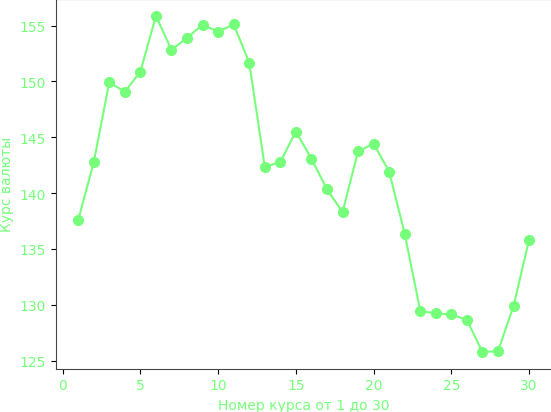
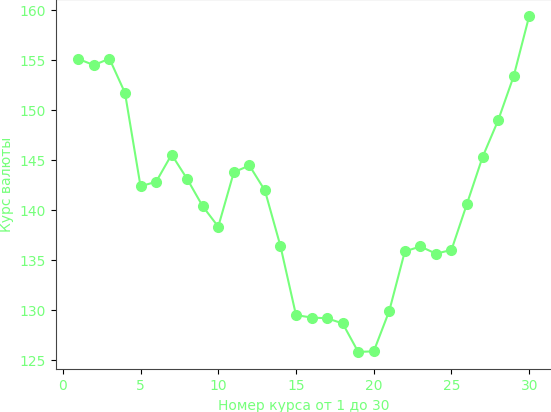
добавил упоминание загадок ботом для распространения по серверу секретных слов. Добавил новую функцию в ai_response.

diff --git a/Cogs/Events.py b/Cogs/Events.py
@@ -27,10 +27,11 @@ from bot_modules.private_channels.voice_channels import WriteJsonFileVoice
 from bot_modules.investions.set_invest import InvestJsonActions
 from bot_modules.investions.invest_graph import CourseJsonWriter
 from bot_modules.BotStats.ErrorsWriter import error_write
-from bot_modules.ai_response.ai_response import get_response
+from bot_modules.ai_response.ai_response import get_response, get_response_secret_word
 from bot_modules.ai_response.json_writter import write_into_json, JSON_PATH
 from bot_modules.command_logger import event_logger, cog_logger, command_logger, error_logger
 from bot_modules.work_game.user_work_writer import get_user_work_info, WORK_PATH
+from bot_modules.secret_words_game.words_json_writer import get_all_secret_words
 
 ## Прочие константы.
 DIR_CREDIT_PATH = directory_path
@@ -53,6 +54,7 @@ class Events(commands.Cog):
         """
         ## Получаем объект канала для логирования.
         self.logs_channel: disnake.TextChannel = self.bot.get_channel(1268855280566009876)
+        self.guild: disnake.Guild = self.bot.guilds[0]
         
         ## Информирование о запуске бота.
         logger.info(">>> Bot: Just Door's __BOT__ ---> Online.")
@@ -65,7 +67,59 @@ class Events(commands.Cog):
         self.check_delete_private_voice_channel.start()
         self.set_investions.start()
         self.check_user_work.start()
+        self.show_secret_word.start()
     
+    
+    @tasks.loop(seconds=5)
+    async def show_secret_word(
+        self
+    ) -> None:
+        
+        event_logger(
+            bot_name=BOT_NAME,
+            event_name="show_secret_word"
+        )
+        
+        rand_number: float = random.random()
+        print(rand_number)
+        if round(rand_number, 2) <= 0.1:
+            
+            event_logger(
+                bot_name=BOT_NAME,
+                event_name="show_secret_word --TRUE"
+            )
+            
+            all_secret_words: list = get_all_secret_words()
+            ## Проверка пусты ли секретные слова.
+            if all_secret_words == []:
+                return None
+            
+            ## Получаем все каналы из необходимой директории
+            all_channels: list = self.guild.channels
+            channel: disnake.TextChannel = None
+            channels_to_send_message: list = []
+            
+            for channel in all_channels:
+                ## Проверяем принадлежность канала к директории.
+                if channel.category_id == 1209214715197136927:
+                    channels_to_send_message.append(channel.id)
+            ## Получаем объект канала.
+            channel_to_send: disnake.TextChannel = self.bot.get_channel(
+                random.choice(channels_to_send_message)
+            )
+            ## Случайным образом получаем одно из секретных слов.
+            secret_word_to_show: str = random.choice(all_secret_words)
+            
+            ## Получаем ответ на запрос от ИИ.
+            ai_response: str = get_response_secret_word(
+                secret_word_to_show=secret_word_to_show
+            )
+            ## Высылаем ответ от ИИ.
+            await channel_to_send.send(
+                ai_response,
+                delete_after=60
+                )
+
     
     @tasks.loop(minutes=5)
     async def check_user_work(

diff --git a/bot_modules/ai_response/ai_response.py b/bot_modules/ai_response/ai_response.py
@@ -9,3 +9,22 @@ def get_response() -> str:
         stream=True,
     )
     return "".join(str(message) for message in response)
+
+
+def get_response_secret_word(secret_word_to_show: str) -> str:
+    data: dict = [
+        {
+            'role': 'user',
+            'content': f"LesSnik: Попрошу сделать скрытую загадку на слово {secret_word_to_show}. \
+                Будь рассказчиком! Не упоминай меня, себя и само слово! Твой ответ сразу идёт на разгадку без изменений! \
+                Это Discord канал, можешь использовать эмодзи. Главное - уложись в 2000 символов."
+        }
+    ]
+
+    response = g4f.ChatCompletion.create(
+        model=g4f.models.blackbox,
+        provider=g4f.Model.best_provider,
+        messages=data,
+        stream=True,
+    )
+    return "".join(str(message) for message in response)

diff --git a/bot_modules/ai_response/json_writter.py b/bot_modules/ai_response/json_writter.py
@@ -20,18 +20,3 @@ def get_from_json(json_path: str) -> dict:
         history_data: dict = json.load(file).get("history")
         
     return history_data
-
-
-if __name__ == "__main__":
-#     # write_into_json(
-#     #     JSON_PATH,
-#     #     {'role': 'user', 'content': 'Я тоже, как дела?'}
-#     # )
-    
-    print(get_from_json(JSON_PATH))
-    
-    # {"role": "user", "content": "Привет"},
-    # {"role": "assistant", "content": "Привет, рад тебя видеть!"},
-    # {"role": "user", "content": "Как у тебя дела? "},
-    # {"role": "assistant", "content": "Прекрасно, а у тебя как?"}
-    
